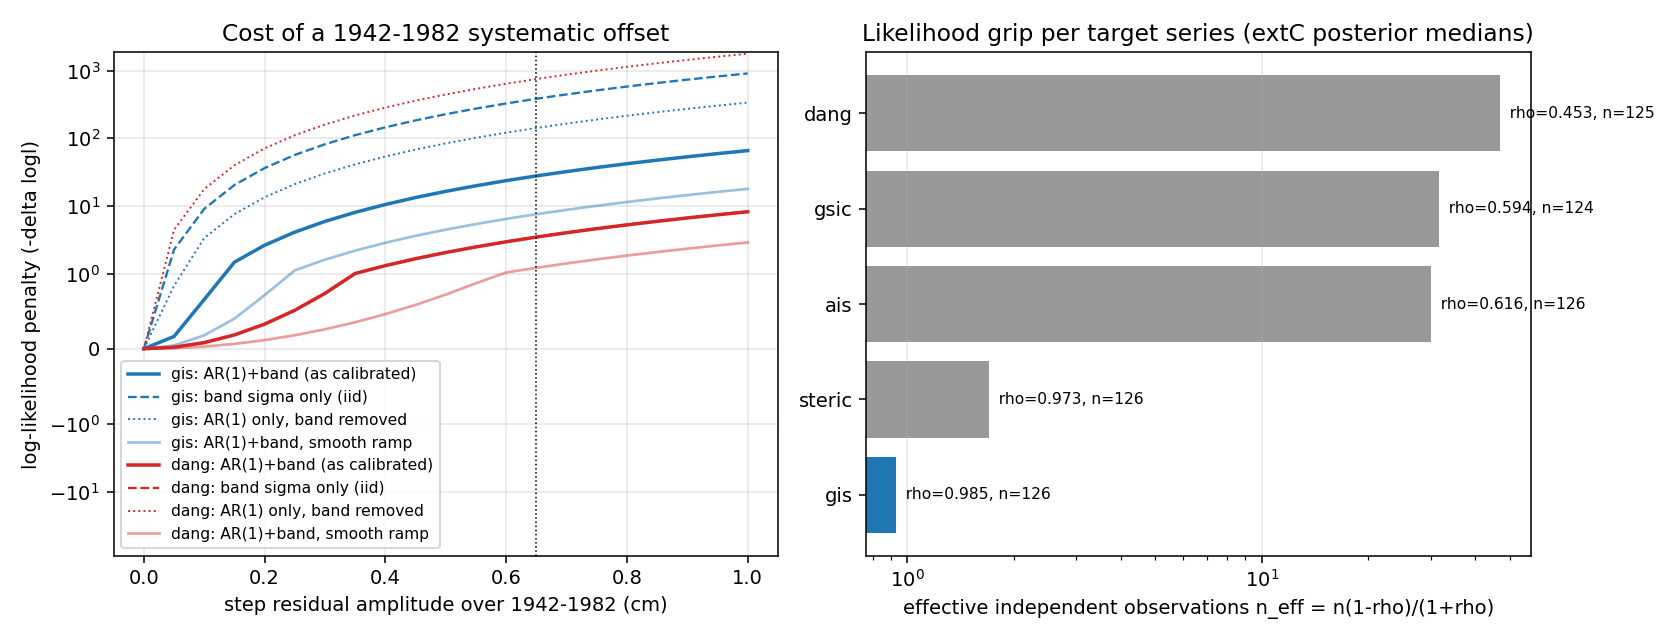
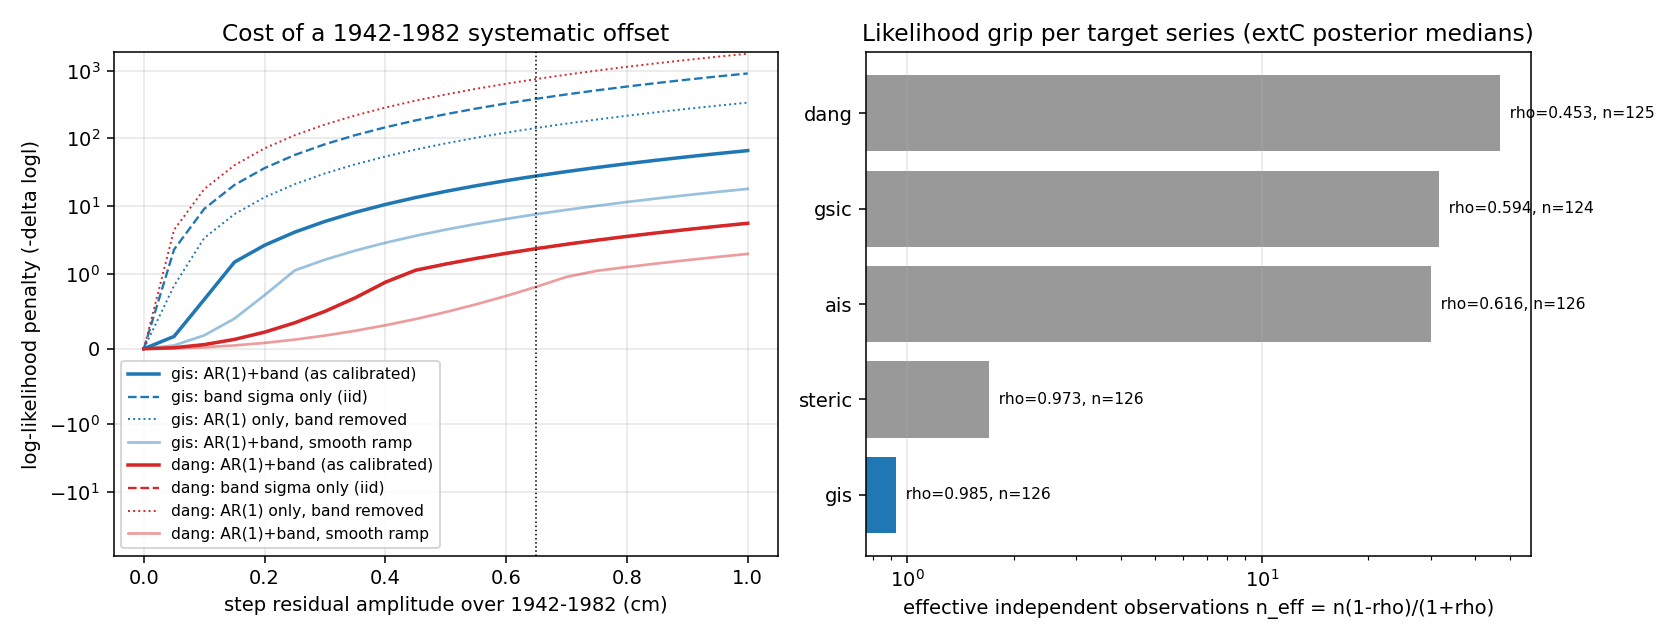
Leverage diagnostic used the wrong sigma for the total; Greenland deal is +14.38, not +12.43
band_sigma() applied epsband() to every column including dang, but the total
channel is not an epsband column in calibrate_mcmc_ext.jl: its sigma is the
Dangendorf/altimetry SE in quadrature with the LWS band term, and since the
gate-3.1 ruling also with the per-year Frederikse budget-closure sigma.
dang_lo/hi are built as +/-z*dang_sig, so (hi-lo)/2z returned dang_sig ALONE --
understating the total's sigma by the LWS term even before the ruling.

The bias was one-directional: it made the dang penalty too negative, i.e. it
understated how good a deal the Greenland correction is. Realised correction at
the extC residuals: dang -4.057 -> -2.106, NET +12.43 -> +14.38 logl. The
synthetic-shape figures move the same way (step +24.25 -> +25.37, ramp
+6.32 -> +6.71). gis is unaffected (+16.49) -- it is an epsband column.

This is a pre-registration number for step 5, so it is corrected before the run
rather than after.

Changed region(s): [[0.0929, 0.3106, 0.4643, 0.559]]

diff --git a/python/diag_gis_likelihood_leverage.py b/python/diag_gis_likelihood_leverage.py
@@ -77,12 +77,29 @@ STEP_AMPS = np.arange(0.0, 1.01, 0.05)  # cm
 REPORT_AMP = 0.65                     # cm -- centre of the memo's 0.5-0.7 cm miss
 EPS_FLOOR = 0.05                      # cm; matches ϵband() in calibrate_mcmc_ext.jl
 BAND_Z = 1.645                        # (hi-lo) = 2 * BAND_Z * sigma, matches the prep script
+DANG_COL = "dang"                     # the total channel; its sigma is NOT an epsband column
+CLOSURE_SIG_COL = "dang_closure_sig"  # gate-3.1 ruling, python/prep_recalib_targets_ext.py
 
 STEP_LABEL = f"{STEP_Y0}-{STEP_Y1}"
 
 
 def band_sigma(tg, col):
-    """Per-year obs sigma exactly as ϵband() builds it in calibrate_mcmc_ext.jl."""
+    """Per-year obs sigma exactly as make_series() builds it in calibrate_mcmc_ext.jl.
+
+    CORRECTED 2026-08-12. The `dang` (total) channel is NOT an epsband() column
+    there: its σ is the Dangendorf/altimetry SE in QUADRATURE with the LWS band
+    term, and since the gate-3.1 ruling also with the per-year Frederikse
+    budget-closure σ. Using (hi - lo) / 2z for it returns dang_sig ALONE --
+    dang_lo/hi are built as ±z·dang_sig -- which understated the total's σ by
+    the LWS term even before the ruling, and now by the closure term as well.
+    That biases this diagnostic's `dang` penalty too NEGATIVE, i.e. it
+    understates how good a deal the Greenland correction is."""
+    if col == DANG_COL:
+        eps_lws = np.maximum((tg["lws_hi"] - tg["lws_lo"]) / (2 * BAND_Z), EPS_FLOOR)
+        s2 = tg["dang_sig"] ** 2 + eps_lws ** 2
+        if CLOSURE_SIG_COL in tg.columns:
+            s2 = s2 + tg[CLOSURE_SIG_COL].fillna(0.0) ** 2
+        return np.maximum(np.sqrt(s2), EPS_FLOOR)
     s = (tg[col + "_hi"] - tg[col + "_lo"]) / (2 * BAND_Z)
     return np.maximum(s, EPS_FLOOR)
 

diff --git a/outputs/diag_gis_likelihood_leverage_summary.md b/outputs/diag_gis_likelihood_leverage_summary.md
@@ -10,7 +10,7 @@ Noise parameters: pooled medians over seeds [2026, 2027, 2028, 2029], last 50% o
 | gsic | 1900-2023 | 124 | 0.594 | 1.9 | **31.61** | 0.017 | 0.459 |
 | gis | 1900-2025 | 126 | 0.985 | 67.5 | **0.93** | 0.318 | 0.188 |
 | steric | 1900-2025 | 126 | 0.973 | 37.1 | **1.70** | 0.302 | 0.310 |
-| dang | 1900-2024 | 125 | 0.453 | 1.3 | **47.09** | 0.068 | 1.538 |
+| dang | 1900-2024 | 125 | 0.453 | 1.3 | **47.09** | 0.068 | 2.021 |
 
 ## Cost of a 0.65 cm systematic residual over 1942-1982
 
@@ -21,8 +21,8 @@ n_eff above describes the AR(1) term alone and so understates the grip; the AR(1
 |---|---|---|---|---|---|
 | gis | step | 27.71 | 382.60 | 141.70 | 14x |
 | gis | ramp | 7.53 | 122.77 | 8.92 | 16x |
-| dang | step | 3.46 | 3.48 | 748.62 | 1x |
-| dang | ramp | 1.22 | 1.22 | 258.24 | 1x |
+| dang | step | 2.34 | 2.34 | 748.62 | 1x |
+| dang | ramp | 0.82 | 0.83 | 258.24 | 1x |
 
 ## The realised correction (actual extC residuals, not a synthetic shape)
 
@@ -31,8 +31,8 @@ Mean over 1942-1982, cm; residual = model - obs.
 | series | residual now | correction applied | residual after | delta logl |
 |---|---|---|---|---|
 | gis | -0.822 | +0.822 | +0.000 | **+16.49** |
-| dang | -0.322 | +0.822 | +0.499 | **-4.06** |
+| dang | -0.322 | +0.822 | +0.499 | **-2.11** |
 
-Net over both channels: **+12.43 log-likelihood units** in favour of the Greenland correction.
+Net over both channels: **+14.38 log-likelihood units** in favour of the Greenland correction.
 
-Net log-likelihood available to the Greenland fix, as calibrated: **+27.71** gained on gis against **-3.46** paid on dang = **+24.25 net** (step), **+6.32 net** (smooth ramp).
+Net log-likelihood available to the Greenland fix, as calibrated: **+27.71** gained on gis against **-2.34** paid on dang = **+25.37 net** (step), **+6.71 net** (smooth ramp).
